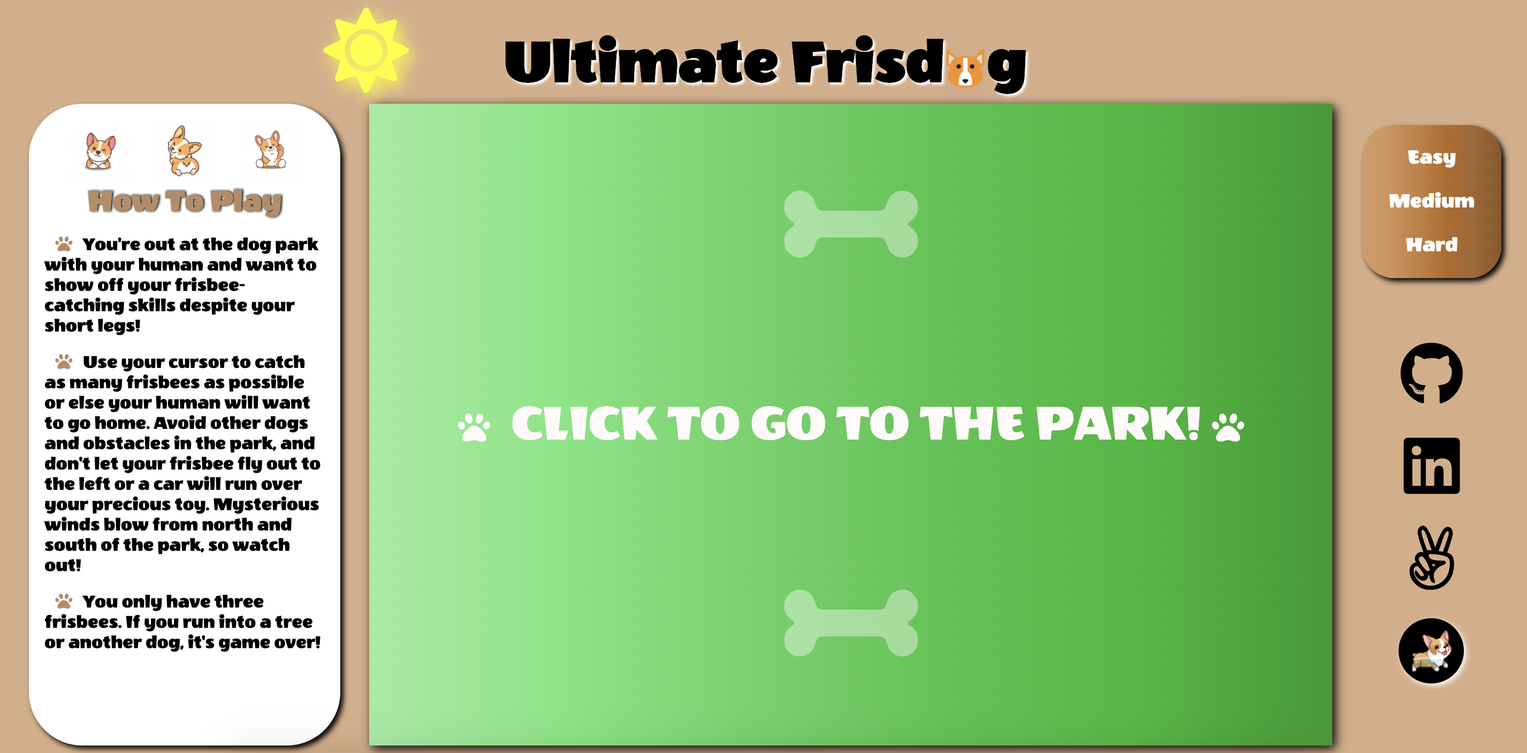
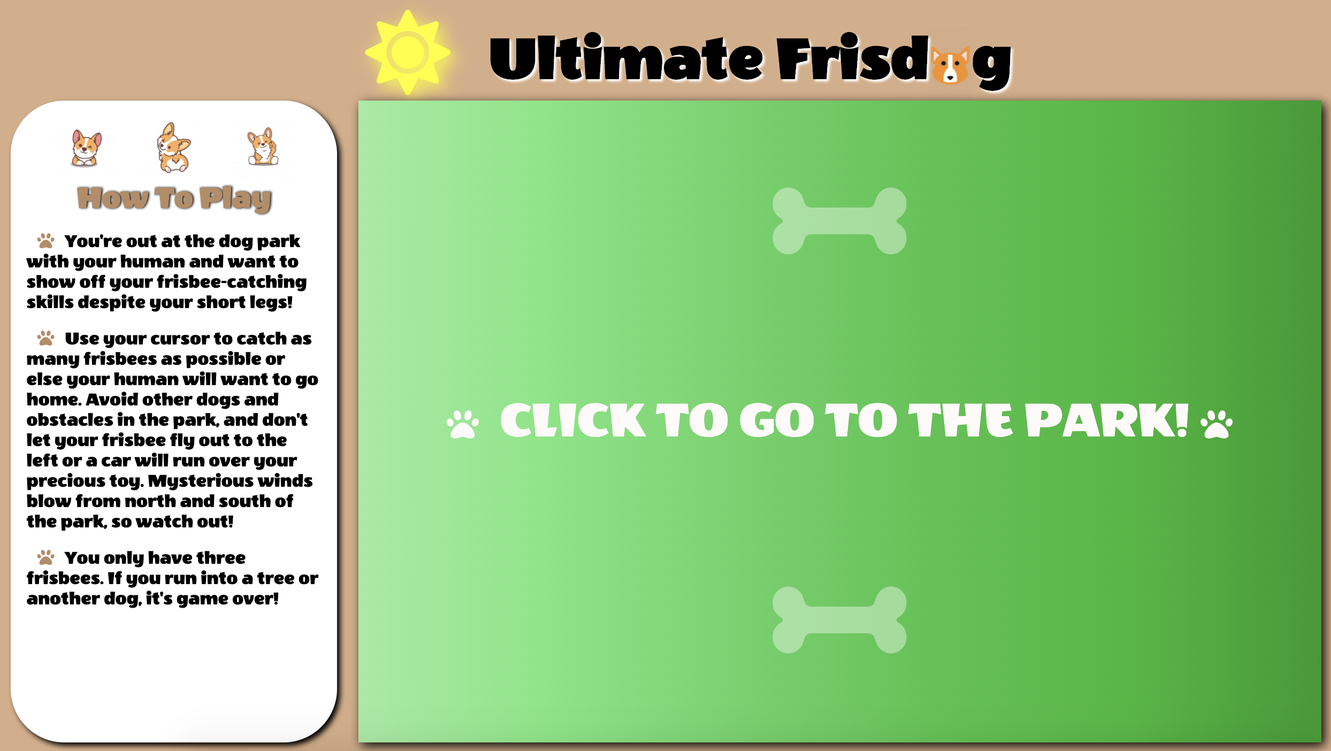
update styles

Changed region(s): [[0.0, 0.0, 1.0, 1.0], [0.4952, 0.7657, 0.6809, 0.8882], [0.4952, 0.245, 0.6809, 0.3369]]

diff --git a/dist/main.js b/dist/main.js
@@ -1,2 +1,2 @@
-!function(t){var e={};function i(s){if(e[s])return e[s].exports;var o=e[s]={i:s,l:!1,exports:{}};return t[s].call(o.exports,o,o.exports,i),o.l=!0,o.exports}i.m=t,i.c=e,i.d=function(t,e,s){i.o(t,e)||Object.defineProperty(t,e,{enumerable:!0,get:s})},i.r=function(t){"undefined"!=typeof Symbol&&Symbol.toStringTag&&Object.defineProperty(t,Symbol.toStringTag,{value:"Module"}),Object.defineProperty(t,"__esModule",{value:!0})},i.t=function(t,e){if(1&e&&(t=i(t)),8&e)return t;if(4&e&&"object"==typeof t&&t&&t.__esModule)return t;var s=Object.create(null);if(i.r(s),Object.defineProperty(s,"default",{enumerable:!0,value:t}),2&e&&"string"!=typeof t)for(var o in t)i.d(s,o,function(e){return t[e]}.bind(null,o));return s},i.n=function(t){var e=t&&t.__esModule?function(){return t.default}:function(){return t};return i.d(e,"a",e),e},i.o=function(t,e){return Object.prototype.hasOwnProperty.call(t,e)},i.p="/dist/",i(i.s=1)}([function(t,e,i){},function(t,e,i){"use strict";function s(t,e){for(var i=0;i<e.length;i++){var s=e[i];s.enumerable=s.enumerable||!1,s.configurable=!0,"value"in s&&(s.writable=!0),Object.defineProperty(t,s.key,s)}}i.r(e);var o=function(){function t(e,i){var s=this;!function(t,e){if(!(t instanceof e))throw new TypeError("Cannot call a class as a function")}(this,t),this.ctx=e,this.canvas=i;var o=new Image;o.src="src/assets/images/corgi.gif",this.image=o,this.height=70,this.width=70,this.mousePos={x:0,y:300},o.onload=function(){s.drawCorgi()},this.mouseMoveHandler()}var e,i,o;return e=t,(i=[{key:"mouseMoveHandler",value:function(){var t=this;this.canvas.addEventListener("mousemove",(function(e){t.mousePos.x=e.clientX-t.canvas.offsetLeft-80,t.mousePos.y=e.clientY-t.canvas.offsetTop-120,t.drawCorgi()}))}},{key:"resetCorgi",value:function(){this.mousePos.x=0,this.mousePos.y=300}},{key:"drawCorgi",value:function(){this.ctx.drawImage(this.image,this.mousePos.x,this.mousePos.y,this.width,this.height)}}])&&s(e.prototype,i),o&&s(e,o),t}();function r(t,e){for(var i=0;i<e.length;i++){var s=e[i];s.enumerable=s.enumerable||!1,s.configurable=!0,"value"in s&&(s.writable=!0),Object.defineProperty(t,s.key,s)}}var n=function(){function t(e){!function(t,e){if(!(t instanceof e))throw new TypeError("Cannot call a class as a function")}(this,t),this.ctx=e;this.frisbeeRadius=8,this.frisbeePos={x:8,y:Math.floor(500*Math.random()+50)},this.frisbeeMove={dx:1,dy:1*Math.random()-.5},this.drawFrisbee=this.drawFrisbee.bind(this)}var e,i,s;return e=t,(i=[{key:"drawFrisbee",value:function(){this.ctx.beginPath(),this.ctx.arc(this.frisbeePos.x,this.frisbeePos.y,this.frisbeeRadius,0,2*Math.PI),this.ctx.fillStyle="rgb(37, 90, 187)",this.ctx.fill(),this.ctx.closePath(),this.frisbeePos.x+=this.frisbeeMove.dx,this.frisbeePos.y+=this.frisbeeMove.dy,(this.frisbeePos.y+this.frisbeeMove.dy>550||this.frisbeePos.y+this.frisbeeMove.dy<50)&&(this.frisbeeMove.dy=-this.frisbeeMove.dy/10)}},{key:"reset",value:function(){this.frisbeePos.x=this.frisbeeRadius,this.frisbeePos.y=Math.floor(500*Math.random()+50),this.frisbeeMove.dy=1*Math.random()-.5,this.frisbeeMove.dx<15?this.frisbeeMove.dx+=.3:this.frisbeeMove.dx>=15&&this.frisbeeMove.dx<25?this.frisbeeMove.dx+=.2:this.frisbeeMove.dx>=25&&this.frisbeeMove.dx<35&&(this.frisbeeMove.dx+=.1)}}])&&r(e.prototype,i),s&&r(e,s),t}();function a(t,e){for(var i=0;i<e.length;i++){var s=e[i];s.enumerable=s.enumerable||!1,s.configurable=!0,"value"in s&&(s.writable=!0),Object.defineProperty(t,s.key,s)}}var c=function(){function t(e){!function(t,e){if(!(t instanceof e))throw new TypeError("Cannot call a class as a function")}(this,t),this.ctx=e;var i=Math.floor(600*Math.random()+100);this.xPos=i;var s=Math.floor(500*Math.random()+50);this.yPos=s,this.drawObstacle=this.drawObstacle.bind(this),this.move=this.move.bind(this),this.randomMove=this.randomMove.bind(this)}var e,i,s;return e=t,(i=[{key:"getXPos",value:function(){if(this.xPos)return this.xPos}},{key:"getYPos",value:function(){if(this.yPos)return this.yPos}},{key:"drawObstacle",value:function(){this.ctx.drawImage(this.image,this.xPos,this.yPos,60,60)}},{key:"move",value:function(t,e){this.checkValidMove(t,e)||(e=0,t=0),this.xPos+=t,this.yPos+=e}},{key:"checkValidMove",value:function(t,e){return this.getXPos(),!(this.xPos+t<50||this.xPos+t>850||this.yPos+e<50||this.yPos+e>550)}},{key:"randomMove",value:function(){var t=4*Math.random()-2,e=4*Math.random()-2;this.checkValidMove(t,e)?this.move(t,e):this.randomMove()}}])&&a(e.prototype,i),s&&a(e,s),t}();function u(t){return(u="function"==typeof Symbol&&"symbol"==typeof Symbol.iterator?function(t){return typeof t}:function(t){return t&&"function"==typeof Symbol&&t.constructor===Symbol&&t!==Symbol.prototype?"symbol":typeof t})(t)}function f(t,e){return(f=Object.setPrototypeOf||function(t,e){return t.__proto__=e,t})(t,e)}function l(t,e){return!e||"object"!==u(e)&&"function"!=typeof e?function(t){if(void 0===t)throw new ReferenceError("this hasn't been initialised - super() hasn't been called");return t}(t):e}function h(){if("undefined"==typeof Reflect||!Reflect.construct)return!1;if(Reflect.construct.sham)return!1;if("function"==typeof Proxy)return!0;try{return Date.prototype.toString.call(Reflect.construct(Date,[],(function(){}))),!0}catch(t){return!1}}function y(t){return(y=Object.setPrototypeOf?Object.getPrototypeOf:function(t){return t.__proto__||Object.getPrototypeOf(t)})(t)}var d=function(t){!function(t,e){if("function"!=typeof e&&null!==e)throw new TypeError("Super expression must either be null or a function");t.prototype=Object.create(e&&e.prototype,{constructor:{value:t,writable:!0,configurable:!0}}),e&&f(t,e)}(s,t);var e,i=(e=s,function(){var t,i=y(e);if(h()){var s=y(this).constructor;t=Reflect.construct(i,arguments,s)}else t=i.apply(this,arguments);return l(this,t)});function s(t){var e;!function(t,e){if(!(t instanceof e))throw new TypeError("Cannot call a class as a function")}(this,s),(e=i.call(this,t)).ctx=t;var o=new Image;return o.src="src/assets/images/tree.png",e.image=o,e.height=60,e.width=50,e.xPos=e.getXPos(),e.yPos=e.getYPos(),e}return s}(c);function p(t){return(p="function"==typeof Symbol&&"symbol"==typeof Symbol.iterator?function(t){return typeof t}:function(t){return t&&"function"==typeof Symbol&&t.constructor===Symbol&&t!==Symbol.prototype?"symbol":typeof t})(t)}function b(t,e){return(b=Object.setPrototypeOf||function(t,e){return t.__proto__=e,t})(t,e)}function m(t,e){return!e||"object"!==p(e)&&"function"!=typeof e?function(t){if(void 0===t)throw new ReferenceError("this hasn't been initialised - super() hasn't been called");return t}(t):e}function v(){if("undefined"==typeof Reflect||!Reflect.construct)return!1;if(Reflect.construct.sham)return!1;if("function"==typeof Proxy)return!0;try{return Date.prototype.toString.call(Reflect.construct(Date,[],(function(){}))),!0}catch(t){return!1}}function g(t){return(g=Object.setPrototypeOf?Object.getPrototypeOf:function(t){return t.__proto__||Object.getPrototypeOf(t)})(t)}var P=function(t){!function(t,e){if("function"!=typeof e&&null!==e)throw new TypeError("Super expression must either be null or a function");t.prototype=Object.create(e&&e.prototype,{constructor:{value:t,writable:!0,configurable:!0}}),e&&b(t,e)}(s,t);var e,i=(e=s,function(){var t,i=g(e);if(v()){var s=g(this).constructor;t=Reflect.construct(i,arguments,s)}else t=i.apply(this,arguments);return m(this,t)});function s(t){var e;!function(t,e){if(!(t instanceof e))throw new TypeError("Cannot call a class as a function")}(this,s),(e=i.call(this,t)).ctx=t;var o=new Image;return o.src="src/assets/images/brown-dog.png",e.image=o,e.height=60,e.width=60,e.xPos=e.getXPos(),e.yPos=e.getYPos(),e}return s}(c);function w(t){return(w="function"==typeof Symbol&&"symbol"==typeof Symbol.iterator?function(t){return typeof t}:function(t){return t&&"function"==typeof Symbol&&t.constructor===Symbol&&t!==Symbol.prototype?"symbol":typeof t})(t)}function x(t,e){return(x=Object.setPrototypeOf||function(t,e){return t.__proto__=e,t})(t,e)}function M(t,e){return!e||"object"!==w(e)&&"function"!=typeof e?function(t){if(void 0===t)throw new ReferenceError("this hasn't been initialised - super() hasn't been called");return t}(t):e}function k(){if("undefined"==typeof Reflect||!Reflect.construct)return!1;if(Reflect.construct.sham)return!1;if("function"==typeof Proxy)return!0;try{return Date.prototype.toString.call(Reflect.construct(Date,[],(function(){}))),!0}catch(t){return!1}}function O(t){return(O=Object.setPrototypeOf?Object.getPrototypeOf:function(t){return t.__proto__||Object.getPrototypeOf(t)})(t)}var S=["src/assets/images/husky.png","src/assets/images/husky2.png","src/assets/images/husky3.png"],_=function(t){!function(t,e){if("function"!=typeof e&&null!==e)throw new TypeError("Super expression must either be null or a function");t.prototype=Object.create(e&&e.prototype,{constructor:{value:t,writable:!0,configurable:!0}}),e&&x(t,e)}(s,t);var e,i=(e=s,function(){var t,i=O(e);if(k()){var s=O(this).constructor;t=Reflect.construct(i,arguments,s)}else t=i.apply(this,arguments);return M(this,t)});function s(t){var e;!function(t,e){if(!(t instanceof e))throw new TypeError("Cannot call a class as a function")}(this,s),(e=i.call(this,t)).ctx=t;var o=new Image;return o.src=S[Math.floor(Math.random()*S.length)],e.image=o,e.height=60,e.width=60,e.xPos=e.getXPos(),e.yPos=e.getYPos(),e}return s}(c);function j(t){return(j="function"==typeof Symbol&&"symbol"==typeof Symbol.iterator?function(t){return typeof t}:function(t){return t&&"function"==typeof Symbol&&t.constructor===Symbol&&t!==Symbol.prototype?"symbol":typeof t})(t)}function L(t,e){return(L=Object.setPrototypeOf||function(t,e){return t.__proto__=e,t})(t,e)}function B(t,e){return!e||"object"!==j(e)&&"function"!=typeof e?function(t){if(void 0===t)throw new ReferenceError("this hasn't been initialised - super() hasn't been called");return t}(t):e}function E(){if("undefined"==typeof Reflect||!Reflect.construct)return!1;if(Reflect.construct.sham)return!1;if("function"==typeof Proxy)return!0;try{return Date.prototype.toString.call(Reflect.construct(Date,[],(function(){}))),!0}catch(t){return!1}}function R(t){return(R=Object.setPrototypeOf?Object.getPrototypeOf:function(t){return t.__proto__||Object.getPrototypeOf(t)})(t)}var C=["src/assets/images/shiba.png","src/assets/images/shiba2.png","src/assets/images/shiba3.png"],T=function(t){!function(t,e){if("function"!=typeof e&&null!==e)throw new TypeError("Super expression must either be null or a function");t.prototype=Object.create(e&&e.prototype,{constructor:{value:t,writable:!0,configurable:!0}}),e&&L(t,e)}(s,t);var e,i=(e=s,function(){var t,i=R(e);if(E()){var s=R(this).constructor;t=Reflect.construct(i,arguments,s)}else t=i.apply(this,arguments);return B(this,t)});function s(t){var e;!function(t,e){if(!(t instanceof e))throw new TypeError("Cannot call a class as a function")}(this,s),(e=i.call(this,t)).ctx=t;var o=new Image;return o.src=C[Math.floor(Math.random()*C.length)],e.image=o,e.height=60,e.width=60,e.xPos=e.getXPos(),e.yPos=e.getYPos(),e}return s}(c);function I(t,e){for(var i=0;i<e.length;i++){var s=e[i];s.enumerable=s.enumerable||!1,s.configurable=!0,"value"in s&&(s.writable=!0),Object.defineProperty(t,s.key,s)}}var D={trees:1,dogs:2},G={trees:2,dogs:3},F={trees:3,dogs:4},X=function(){function t(e,i){!function(t,e){if(!(t instanceof e))throw new TypeError("Cannot call a class as a function")}(this,t),this.ctx=e,this.canvas=i,this.score=0,this.frisbees=3,this.gameOver=!1,this.musicPlaying=!0,this.difficulty=F;var s=new n(this.ctx);this.frisbee=s;var r=new o(this.ctx,this.canvas);this.player=r;var a=[],c=new P(this.ctx);this.borderCollie=c,a.push(this.borderCollie);var u=new _(this.ctx);this.husky=u,a.push(this.husky);var f=new T(this.ctx);this.shiba=f,a.push(this.shiba);var l=new T(this.ctx);this.shiba2=l,a.push(this.shiba2),this.dogs=a;for(var h=[],y=0;y<this.difficulty.trees;y++){var p=new d(this.ctx);this.tree=p,h.push(this.tree)}this.trees=h;var b=new Audio("src/assets/sounds/music.mp3");this.music=b,this.setup=this.setup.bind(this),this.draw=this.draw.bind(this),this.clickModalStart=this.clickModalStart.bind(this),this.clickGameStart=this.clickGameStart.bind(this),this.stopGame=this.stopGame.bind(this),this.playMusic=this.playMusic.bind(this),this.setupControls()}var e,i,s;return e=t,(i=[{key:"setupControls",value:function(){var t=this,e=document.getElementById("easy-button");this.easyButton=e;var i=document.getElementById("medium-button");this.mediumButton=i;var s=document.getElementById("hard-button");this.hardButton=s,this.easyButton.addEventListener("click",(function(){t.easyButton.classList.add("active-button"),t.mediumButton.classList.remove("active-button"),t.hardButton.classList.remove("active-button"),t.difficulty=D})),this.mediumButton.addEventListener("click",(function(){t.easyButton.classList.remove("active-button"),t.mediumButton.classList.add("active-button"),t.hardButton.classList.remove("active-button"),t.difficulty=G})),this.hardButton.addEventListener("click",(function(){t.easyButton.classList.remove("active-button"),t.mediumButton.classList.remove("active-button"),t.hardButton.classList.add("active-button"),t.difficulty=F})),this.muteButton=document.getElementById("mute-music"),this.muteButton.onclick=this.muteMusic.bind(this),this.playButton=document.getElementById("play-music"),this.playButton.onclick=this.playMusic.bind(this),this.startModal=document.getElementById("modal"),this.startModal.onclick=this.clickModalStart.bind(this),this.startGame=document.getElementById("park-view"),this.startGame.onclick=this.clickGameStart.bind(this),this.playMusic()}},{key:"muteMusic",value:function(){this.music.pause(),this.playButton.classList.remove("active-button"),this.muteButton.classList.add("active-button")}},{key:"playMusic",value:function(){this.muteButton.classList.remove("active-button"),this.playButton.classList.add("active-button"),this.music.pause(),this.music.currentTime=0,this.music.play()}},{key:"clickModalStart",value:function(t){t.preventDefault(),this.score=0,this.frisbees=3,this.gameOver=!1,this.startModal.classList.remove("open-modal"),this.startModal.classList.add("close-modal"),this.startGame.classList.remove("close-park-view"),this.startGame.classList.add("open-park-view"),this.startModal.onclick=function(t){return t.preventDefault()},this.setup()}},{key:"clickGameStart",value:function(t){t.preventDefault(),this.startGame.classList.remove("open-park-view"),this.startGame.classList.add("close-park-view"),this.draw()}},{key:"stopGame",value:function(){var t="frisbees";1===this.score&&(t="frisbee"),this.gameOver&&(cancelAnimationFrame(this.setup),cancelAnimationFrame(this.draw),this.frisbee.frisbeeMove.dx=1,this.player.resetCorgi(),this.startModal.innerHTML="You caught "+this.score+" "+t+" today! <br><br> <i class='fas fa-paw'></i> <br>Click to fast-forward to tomorrow and play again!",this.startModal.classList.remove("close-modal"),this.startModal.classList.add("open-modal"),this.ctx.clearRect(0,0,900,600),this.startModal.onclick=this.clickModalStart.bind(this))}},{key:"drawTrees",value:function(){for(var t=0;t<this.difficulty.trees;t++)this.trees[t].drawObstacle()}},{key:"drawDogs",value:function(){for(var t=0;t<this.difficulty.dogs;t++){var e=this.dogs[t];e.drawObstacle(),e.randomMove()}}},{key:"setup",value:function(){this.ctx.clearRect(0,0,900,600),requestAnimationFrame(this.setup),this.drawTrees(),this.drawDogs(),this.drawScore(),this.drawLives(),this.drawMode()}},{key:"draw",value:function(){requestAnimationFrame(this.draw),this.frisbee.drawFrisbee(),this.player.drawCorgi(),this.didCollide(),this.lostFrisbee(),this.stopGame(),0===this.frisbees&&(this.gameOver=!0)}},{key:"drawScore",value:function(){this.ctx.font="20px Wendy One",this.ctx.fillStyle="black",this.ctx.fillText("Score:  "+this.score,20,25)}},{key:"drawLives",value:function(){this.ctx.font="20px Wendy One",this.ctx.fillStyle="black",this.ctx.fillText("Frisbees Left:  "+this.frisbees,120,25)}},{key:"drawMode",value:function(){var t="Hard";t=this.difficulty===D?"Easy":this.difficulty===G?"Medium":"Hard",this.ctx.font="20px Wendy One",this.ctx.fillStyle="black",this.ctx.fillText("Difficulty:   "+t,680,25)}},{key:"lostFrisbee",value:function(){this.frisbee.frisbeePos.x>905&&(this.frisbees--,this.frisbee.reset(),this.draw)}},{key:"didCollide",value:function(){this.frisbeeCollision()&&(this.score++,this.frisbee.reset(),this.draw),this.obstacleCollision()&&(this.gameOver=!0)}},{key:"obstacleCollision",value:function(){for(var t=0;t<this.difficulty.trees;t++)if(this.player.mousePos.x>this.trees[t].xPos-40&&this.player.mousePos.x<this.trees[t].xPos+40&&this.player.mousePos.y>this.trees[t].yPos-40&&this.player.mousePos.y<this.trees[t].yPos+40)return!0;for(var e=0;e<this.difficulty.dogs;e++)if(this.player.mousePos.x>this.dogs[e].xPos-40&&this.player.mousePos.x<this.dogs[e].xPos+40&&this.player.mousePos.y>this.dogs[e].yPos-40&&this.player.mousePos.y<this.dogs[e].yPos+40)return!0}},{key:"frisbeeCollision",value:function(){if(this.player.mousePos.x>this.frisbee.frisbeePos.x-80&&this.player.mousePos.x<this.frisbee.frisbeePos.x&&this.player.mousePos.y>this.frisbee.frisbeePos.y-80&&this.player.mousePos.y<this.frisbee.frisbeePos.y)return!0}}])&&I(e.prototype,i),s&&I(e,s),t}();i(0);document.addEventListener("DOMContentLoaded",(function(){var t=document.getElementById("canvas-dog-park"),e=t.getContext("2d");new X(e,t)}))}]);
+!function(t){var e={};function i(s){if(e[s])return e[s].exports;var o=e[s]={i:s,l:!1,exports:{}};return t[s].call(o.exports,o,o.exports,i),o.l=!0,o.exports}i.m=t,i.c=e,i.d=function(t,e,s){i.o(t,e)||Object.defineProperty(t,e,{enumerable:!0,get:s})},i.r=function(t){"undefined"!=typeof Symbol&&Symbol.toStringTag&&Object.defineProperty(t,Symbol.toStringTag,{value:"Module"}),Object.defineProperty(t,"__esModule",{value:!0})},i.t=function(t,e){if(1&e&&(t=i(t)),8&e)return t;if(4&e&&"object"==typeof t&&t&&t.__esModule)return t;var s=Object.create(null);if(i.r(s),Object.defineProperty(s,"default",{enumerable:!0,value:t}),2&e&&"string"!=typeof t)for(var o in t)i.d(s,o,function(e){return t[e]}.bind(null,o));return s},i.n=function(t){var e=t&&t.__esModule?function(){return t.default}:function(){return t};return i.d(e,"a",e),e},i.o=function(t,e){return Object.prototype.hasOwnProperty.call(t,e)},i.p="/dist/",i(i.s=1)}([function(t,e,i){},function(t,e,i){"use strict";function s(t,e){for(var i=0;i<e.length;i++){var s=e[i];s.enumerable=s.enumerable||!1,s.configurable=!0,"value"in s&&(s.writable=!0),Object.defineProperty(t,s.key,s)}}i.r(e);var o=function(){function t(e,i){var s=this;!function(t,e){if(!(t instanceof e))throw new TypeError("Cannot call a class as a function")}(this,t),this.ctx=e,this.canvas=i;var o=new Image;o.src="src/assets/images/corgi.gif",this.image=o,this.height=70,this.width=70,this.mousePos={x:0,y:300},o.onload=function(){s.drawCorgi()},this.mouseMoveHandler()}var e,i,o;return e=t,(i=[{key:"mouseMoveHandler",value:function(){var t=this;this.canvas.addEventListener("mousemove",(function(e){t.mousePos.x=e.clientX-t.canvas.offsetLeft-80,t.mousePos.y=e.clientY-t.canvas.offsetTop-120,t.drawCorgi()}))}},{key:"resetCorgi",value:function(){this.mousePos.x=0,this.mousePos.y=300}},{key:"drawCorgi",value:function(){this.ctx.drawImage(this.image,this.mousePos.x,this.mousePos.y,this.width,this.height)}}])&&s(e.prototype,i),o&&s(e,o),t}();function r(t,e){for(var i=0;i<e.length;i++){var s=e[i];s.enumerable=s.enumerable||!1,s.configurable=!0,"value"in s&&(s.writable=!0),Object.defineProperty(t,s.key,s)}}var n=function(){function t(e){!function(t,e){if(!(t instanceof e))throw new TypeError("Cannot call a class as a function")}(this,t),this.ctx=e;this.frisbeeRadius=8,this.frisbeePos={x:8,y:Math.floor(500*Math.random()+50)},this.frisbeeMove={dx:1,dy:1*Math.random()-.5},this.drawFrisbee=this.drawFrisbee.bind(this)}var e,i,s;return e=t,(i=[{key:"drawFrisbee",value:function(){this.ctx.beginPath(),this.ctx.arc(this.frisbeePos.x,this.frisbeePos.y,this.frisbeeRadius,0,2*Math.PI),this.ctx.fillStyle="rgb(37, 90, 187)",this.ctx.fill(),this.ctx.closePath(),this.frisbeePos.x+=this.frisbeeMove.dx,this.frisbeePos.y+=this.frisbeeMove.dy,(this.frisbeePos.y+this.frisbeeMove.dy>550||this.frisbeePos.y+this.frisbeeMove.dy<50)&&(this.frisbeeMove.dy=-this.frisbeeMove.dy/10)}},{key:"reset",value:function(){this.frisbeePos.x=this.frisbeeRadius,this.frisbeePos.y=Math.floor(500*Math.random()+50),this.frisbeeMove.dy=1*Math.random()-.5,this.frisbeeMove.dx<15?this.frisbeeMove.dx+=.3:this.frisbeeMove.dx>=15&&this.frisbeeMove.dx<25?this.frisbeeMove.dx+=.2:this.frisbeeMove.dx>=25&&this.frisbeeMove.dx<35&&(this.frisbeeMove.dx+=.1)}}])&&r(e.prototype,i),s&&r(e,s),t}();function a(t,e){for(var i=0;i<e.length;i++){var s=e[i];s.enumerable=s.enumerable||!1,s.configurable=!0,"value"in s&&(s.writable=!0),Object.defineProperty(t,s.key,s)}}var c=function(){function t(e){!function(t,e){if(!(t instanceof e))throw new TypeError("Cannot call a class as a function")}(this,t),this.ctx=e;var i=Math.floor(600*Math.random()+100);this.xPos=i;var s=Math.floor(500*Math.random()+50);this.yPos=s,this.drawObstacle=this.drawObstacle.bind(this),this.move=this.move.bind(this),this.randomMove=this.randomMove.bind(this)}var e,i,s;return e=t,(i=[{key:"getXPos",value:function(){if(this.xPos)return this.xPos}},{key:"getYPos",value:function(){if(this.yPos)return this.yPos}},{key:"drawObstacle",value:function(){this.ctx.drawImage(this.image,this.xPos,this.yPos,60,60)}},{key:"move",value:function(t,e){this.checkValidMove(t,e)||(e=0,t=0),this.xPos+=t,this.yPos+=e}},{key:"checkValidMove",value:function(t,e){return this.getXPos(),!(this.xPos+t<50||this.xPos+t>850||this.yPos+e<50||this.yPos+e>550)}},{key:"randomMove",value:function(){var t=4*Math.random()-2,e=4*Math.random()-2;this.checkValidMove(t,e)?this.move(t,e):this.randomMove()}}])&&a(e.prototype,i),s&&a(e,s),t}();function u(t){return(u="function"==typeof Symbol&&"symbol"==typeof Symbol.iterator?function(t){return typeof t}:function(t){return t&&"function"==typeof Symbol&&t.constructor===Symbol&&t!==Symbol.prototype?"symbol":typeof t})(t)}function f(t,e){return(f=Object.setPrototypeOf||function(t,e){return t.__proto__=e,t})(t,e)}function l(t,e){return!e||"object"!==u(e)&&"function"!=typeof e?function(t){if(void 0===t)throw new ReferenceError("this hasn't been initialised - super() hasn't been called");return t}(t):e}function h(){if("undefined"==typeof Reflect||!Reflect.construct)return!1;if(Reflect.construct.sham)return!1;if("function"==typeof Proxy)return!0;try{return Date.prototype.toString.call(Reflect.construct(Date,[],(function(){}))),!0}catch(t){return!1}}function y(t){return(y=Object.setPrototypeOf?Object.getPrototypeOf:function(t){return t.__proto__||Object.getPrototypeOf(t)})(t)}var d=function(t){!function(t,e){if("function"!=typeof e&&null!==e)throw new TypeError("Super expression must either be null or a function");t.prototype=Object.create(e&&e.prototype,{constructor:{value:t,writable:!0,configurable:!0}}),e&&f(t,e)}(s,t);var e,i=(e=s,function(){var t,i=y(e);if(h()){var s=y(this).constructor;t=Reflect.construct(i,arguments,s)}else t=i.apply(this,arguments);return l(this,t)});function s(t){var e;!function(t,e){if(!(t instanceof e))throw new TypeError("Cannot call a class as a function")}(this,s),(e=i.call(this,t)).ctx=t;var o=new Image;return o.src="src/assets/images/tree.png",e.image=o,e.height=60,e.width=50,e.xPos=e.getXPos(),e.yPos=e.getYPos(),e}return s}(c);function p(t){return(p="function"==typeof Symbol&&"symbol"==typeof Symbol.iterator?function(t){return typeof t}:function(t){return t&&"function"==typeof Symbol&&t.constructor===Symbol&&t!==Symbol.prototype?"symbol":typeof t})(t)}function b(t,e){return(b=Object.setPrototypeOf||function(t,e){return t.__proto__=e,t})(t,e)}function m(t,e){return!e||"object"!==p(e)&&"function"!=typeof e?function(t){if(void 0===t)throw new ReferenceError("this hasn't been initialised - super() hasn't been called");return t}(t):e}function v(){if("undefined"==typeof Reflect||!Reflect.construct)return!1;if(Reflect.construct.sham)return!1;if("function"==typeof Proxy)return!0;try{return Date.prototype.toString.call(Reflect.construct(Date,[],(function(){}))),!0}catch(t){return!1}}function g(t){return(g=Object.setPrototypeOf?Object.getPrototypeOf:function(t){return t.__proto__||Object.getPrototypeOf(t)})(t)}var P=function(t){!function(t,e){if("function"!=typeof e&&null!==e)throw new TypeError("Super expression must either be null or a function");t.prototype=Object.create(e&&e.prototype,{constructor:{value:t,writable:!0,configurable:!0}}),e&&b(t,e)}(s,t);var e,i=(e=s,function(){var t,i=g(e);if(v()){var s=g(this).constructor;t=Reflect.construct(i,arguments,s)}else t=i.apply(this,arguments);return m(this,t)});function s(t){var e;!function(t,e){if(!(t instanceof e))throw new TypeError("Cannot call a class as a function")}(this,s),(e=i.call(this,t)).ctx=t;var o=new Image;return o.src="src/assets/images/brown-dog.png",e.image=o,e.height=60,e.width=60,e.xPos=e.getXPos(),e.yPos=e.getYPos(),e}return s}(c);function w(t){return(w="function"==typeof Symbol&&"symbol"==typeof Symbol.iterator?function(t){return typeof t}:function(t){return t&&"function"==typeof Symbol&&t.constructor===Symbol&&t!==Symbol.prototype?"symbol":typeof t})(t)}function x(t,e){return(x=Object.setPrototypeOf||function(t,e){return t.__proto__=e,t})(t,e)}function M(t,e){return!e||"object"!==w(e)&&"function"!=typeof e?function(t){if(void 0===t)throw new ReferenceError("this hasn't been initialised - super() hasn't been called");return t}(t):e}function k(){if("undefined"==typeof Reflect||!Reflect.construct)return!1;if(Reflect.construct.sham)return!1;if("function"==typeof Proxy)return!0;try{return Date.prototype.toString.call(Reflect.construct(Date,[],(function(){}))),!0}catch(t){return!1}}function O(t){return(O=Object.setPrototypeOf?Object.getPrototypeOf:function(t){return t.__proto__||Object.getPrototypeOf(t)})(t)}var S=["src/assets/images/husky.png","src/assets/images/husky2.png","src/assets/images/husky3.png"],_=function(t){!function(t,e){if("function"!=typeof e&&null!==e)throw new TypeError("Super expression must either be null or a function");t.prototype=Object.create(e&&e.prototype,{constructor:{value:t,writable:!0,configurable:!0}}),e&&x(t,e)}(s,t);var e,i=(e=s,function(){var t,i=O(e);if(k()){var s=O(this).constructor;t=Reflect.construct(i,arguments,s)}else t=i.apply(this,arguments);return M(this,t)});function s(t){var e;!function(t,e){if(!(t instanceof e))throw new TypeError("Cannot call a class as a function")}(this,s),(e=i.call(this,t)).ctx=t;var o=new Image;return o.src=S[Math.floor(Math.random()*S.length)],e.image=o,e.height=60,e.width=60,e.xPos=e.getXPos(),e.yPos=e.getYPos(),e}return s}(c);function j(t){return(j="function"==typeof Symbol&&"symbol"==typeof Symbol.iterator?function(t){return typeof t}:function(t){return t&&"function"==typeof Symbol&&t.constructor===Symbol&&t!==Symbol.prototype?"symbol":typeof t})(t)}function L(t,e){return(L=Object.setPrototypeOf||function(t,e){return t.__proto__=e,t})(t,e)}function B(t,e){return!e||"object"!==j(e)&&"function"!=typeof e?function(t){if(void 0===t)throw new ReferenceError("this hasn't been initialised - super() hasn't been called");return t}(t):e}function E(){if("undefined"==typeof Reflect||!Reflect.construct)return!1;if(Reflect.construct.sham)return!1;if("function"==typeof Proxy)return!0;try{return Date.prototype.toString.call(Reflect.construct(Date,[],(function(){}))),!0}catch(t){return!1}}function R(t){return(R=Object.setPrototypeOf?Object.getPrototypeOf:function(t){return t.__proto__||Object.getPrototypeOf(t)})(t)}var C=["src/assets/images/shiba.png","src/assets/images/shiba2.png","src/assets/images/shiba3.png"],T=function(t){!function(t,e){if("function"!=typeof e&&null!==e)throw new TypeError("Super expression must either be null or a function");t.prototype=Object.create(e&&e.prototype,{constructor:{value:t,writable:!0,configurable:!0}}),e&&L(t,e)}(s,t);var e,i=(e=s,function(){var t,i=R(e);if(E()){var s=R(this).constructor;t=Reflect.construct(i,arguments,s)}else t=i.apply(this,arguments);return B(this,t)});function s(t){var e;!function(t,e){if(!(t instanceof e))throw new TypeError("Cannot call a class as a function")}(this,s),(e=i.call(this,t)).ctx=t;var o=new Image;return o.src=C[Math.floor(Math.random()*C.length)],e.image=o,e.height=60,e.width=60,e.xPos=e.getXPos(),e.yPos=e.getYPos(),e}return s}(c);function I(t,e){for(var i=0;i<e.length;i++){var s=e[i];s.enumerable=s.enumerable||!1,s.configurable=!0,"value"in s&&(s.writable=!0),Object.defineProperty(t,s.key,s)}}var D={trees:1,dogs:2},G={trees:2,dogs:3},F={trees:3,dogs:4},X=function(){function t(e,i){!function(t,e){if(!(t instanceof e))throw new TypeError("Cannot call a class as a function")}(this,t),this.ctx=e,this.canvas=i,this.score=0,this.frisbees=3,this.gameOver=!1,this.musicPlaying=!0,this.difficulty=F;var s=new n(this.ctx);this.frisbee=s;var r=new o(this.ctx,this.canvas);this.player=r;var a=[],c=new P(this.ctx);this.borderCollie=c,a.push(this.borderCollie);var u=new _(this.ctx);this.husky=u,a.push(this.husky);var f=new T(this.ctx);this.shiba=f,a.push(this.shiba);var l=new T(this.ctx);this.shiba2=l,a.push(this.shiba2),this.dogs=a;for(var h=[],y=0;y<this.difficulty.trees;y++){var p=new d(this.ctx);this.tree=p,h.push(this.tree)}this.trees=h;var b=new Audio("src/assets/sounds/music.mp3");b.loop=!0,this.music=b,this.setup=this.setup.bind(this),this.draw=this.draw.bind(this),this.clickModalStart=this.clickModalStart.bind(this),this.clickGameStart=this.clickGameStart.bind(this),this.stopGame=this.stopGame.bind(this),this.playMusic=this.playMusic.bind(this),this.setupControls()}var e,i,s;return e=t,(i=[{key:"setupControls",value:function(){var t=this,e=document.getElementById("easy-button");this.easyButton=e;var i=document.getElementById("medium-button");this.mediumButton=i;var s=document.getElementById("hard-button");this.hardButton=s,this.easyButton.addEventListener("click",(function(){t.easyButton.classList.add("active-button"),t.mediumButton.classList.remove("active-button"),t.hardButton.classList.remove("active-button"),t.difficulty=D})),this.mediumButton.addEventListener("click",(function(){t.easyButton.classList.remove("active-button"),t.mediumButton.classList.add("active-button"),t.hardButton.classList.remove("active-button"),t.difficulty=G})),this.hardButton.addEventListener("click",(function(){t.easyButton.classList.remove("active-button"),t.mediumButton.classList.remove("active-button"),t.hardButton.classList.add("active-button"),t.difficulty=F})),this.muteButton=document.getElementById("mute-music"),this.muteButton.onclick=this.muteMusic.bind(this),this.playButton=document.getElementById("play-music"),this.playButton.onclick=this.playMusic.bind(this),this.startModal=document.getElementById("modal"),this.startModal.onclick=this.clickModalStart.bind(this),this.startGame=document.getElementById("park-view"),this.startGame.onclick=this.clickGameStart.bind(this),this.playMusic()}},{key:"muteMusic",value:function(){this.music.pause(),this.playButton.classList.remove("active-button"),this.muteButton.classList.add("active-button")}},{key:"playMusic",value:function(){this.muteButton.classList.remove("active-button"),this.playButton.classList.add("active-button"),this.music.play()}},{key:"clickModalStart",value:function(t){t.preventDefault(),this.score=0,this.frisbees=3,this.gameOver=!1,this.startModal.classList.remove("open-modal"),this.startModal.classList.add("close-modal"),this.startGame.classList.remove("close-park-view"),this.startGame.classList.add("open-park-view"),this.startModal.onclick=function(t){return t.preventDefault()},this.setup()}},{key:"clickGameStart",value:function(t){t.preventDefault(),this.startGame.classList.remove("open-park-view"),this.startGame.classList.add("close-park-view"),this.draw()}},{key:"stopGame",value:function(){var t="frisbees";1===this.score&&(t="frisbee"),this.gameOver&&(cancelAnimationFrame(this.setup),cancelAnimationFrame(this.draw),this.frisbee.frisbeeMove.dx=1,this.player.resetCorgi(),this.startModal.innerHTML="You caught "+this.score+" "+t+" today! <br><br> <i class='fas fa-paw'></i> <br>Click to fast-forward to tomorrow and play again!",this.startModal.classList.remove("close-modal"),this.startModal.classList.add("open-modal"),this.ctx.clearRect(0,0,900,600),this.startModal.onclick=this.clickModalStart.bind(this))}},{key:"drawTrees",value:function(){for(var t=0;t<this.difficulty.trees;t++)this.trees[t].drawObstacle()}},{key:"drawDogs",value:function(){for(var t=0;t<this.difficulty.dogs;t++){var e=this.dogs[t];e.drawObstacle(),e.randomMove()}}},{key:"setup",value:function(){this.ctx.clearRect(0,0,900,600),requestAnimationFrame(this.setup),this.drawTrees(),this.drawDogs(),this.drawScore(),this.drawLives(),this.drawMode()}},{key:"draw",value:function(){requestAnimationFrame(this.draw),this.frisbee.drawFrisbee(),this.player.drawCorgi(),this.didCollide(),this.lostFrisbee(),this.stopGame(),0===this.frisbees&&(this.gameOver=!0)}},{key:"drawScore",value:function(){this.ctx.font="20px Wendy One",this.ctx.fillStyle="black",this.ctx.fillText("Score:  "+this.score,20,25)}},{key:"drawLives",value:function(){this.ctx.font="20px Wendy One",this.ctx.fillStyle="black",this.ctx.fillText("Frisbees Left:  "+this.frisbees,120,25)}},{key:"drawMode",value:function(){var t="Hard";t=this.difficulty===D?"Easy":this.difficulty===G?"Medium":"Hard",this.ctx.font="20px Wendy One",this.ctx.fillStyle="black",this.ctx.fillText("Difficulty:   "+t,680,25)}},{key:"lostFrisbee",value:function(){this.frisbee.frisbeePos.x>905&&(this.frisbees--,this.frisbee.reset(),this.draw)}},{key:"didCollide",value:function(){this.frisbeeCollision()&&(this.score++,this.frisbee.reset(),this.draw),this.obstacleCollision()&&(this.gameOver=!0)}},{key:"obstacleCollision",value:function(){for(var t=0;t<this.difficulty.trees;t++)if(this.player.mousePos.x>this.trees[t].xPos-40&&this.player.mousePos.x<this.trees[t].xPos+40&&this.player.mousePos.y>this.trees[t].yPos-40&&this.player.mousePos.y<this.trees[t].yPos+40)return!0;for(var e=0;e<this.difficulty.dogs;e++)if(this.player.mousePos.x>this.dogs[e].xPos-40&&this.player.mousePos.x<this.dogs[e].xPos+40&&this.player.mousePos.y>this.dogs[e].yPos-40&&this.player.mousePos.y<this.dogs[e].yPos+40)return!0}},{key:"frisbeeCollision",value:function(){if(this.player.mousePos.x>this.frisbee.frisbeePos.x-80&&this.player.mousePos.x<this.frisbee.frisbeePos.x&&this.player.mousePos.y>this.frisbee.frisbeePos.y-80&&this.player.mousePos.y<this.frisbee.frisbeePos.y)return!0}}])&&I(e.prototype,i),s&&I(e,s),t}();i(0);document.addEventListener("DOMContentLoaded",(function(){var t=document.getElementById("canvas-dog-park"),e=t.getContext("2d");new X(e,t)}))}]);
 //# sourceMappingURL=main.js.map

diff --git a/dist/main.css b/dist/main.css
@@ -1,4 +1,4 @@
-html,body,h1,h2,h3,h4,h5,h6,header,footer,div,span,section,p,label,input,form,img,caption,button,aside,ul,ol,li,tr,td,th,a,dl,dt,dd,nav,time{margin:0;padding:0;border:0;outline:0;box-sizing:inherit;font-family:inherit;text-decoration:inherit;vertical-align:baseline;background:transparent;list-style-type:none}body{background-color:#D8AE87}.outer-container{font-family:'Wendy One', sans-serif;margin:2%}.fa-sun{position:absolute;left:20%;top:-15%;font-size:5em;color:yellow;text-shadow:5px 5px 15px;transition:0.5s}.fa-sun:hover{transform:rotate(10deg);text-shadow:5px 5px 20px}.outer-container h1{font-size:60px;display:flex;justify-content:center;text-shadow:2px 2px 2px white}.main-container{display:flex;position:relative}.corgi-images{display:flex;justify-content:space-evenly}.left{background-color:white;border-radius:50px;box-shadow:3px 3px 5px black;padding:15px;flex:2;margin-right:20px}.left h3{color:#b88c63;font-size:30px;text-align:center;text-shadow:1px 0px 2px black}.left p{padding-top:15px;font-size:18px}#paw{font-size:16px;color:#b88c63}.game-screen{flex:7;margin-right:20px;display:flex;justify-content:center}.right{flex:1;display:flex;flex-direction:column;align-items:center}.right a{text-decoration:none;font-size:50px;padding:10px;color:black;align-self:center;transition:0.5s;cursor:pointer}.right img{align-self:center;width:50px;height:50px;border:0.5px solid black;box-shadow:2px 2px 5px white;border-radius:50%;background-color:black;transition:0.5s}.right img:hover{cursor:pointer;background-color:white;border:0.5px solid white;box-shadow:2px 2px 5px black}.right a:hover{color:snow}#canvas-dog-park{background-image:linear-gradient(to right, #98ec9f, #70e77c, #58d362, #3ac445, #25b931, #1a9b25)}.open-modal{display:flex;flex-direction:column;background-image:linear-gradient(to right, #98ec9f, #70e77c, #58d362, #3ac445, #25b931, #1a9b25);position:absolute;width:900px;height:600px;text-align:center;justify-content:center;align-items:center;color:snow;font-size:50px;z-index:100;box-shadow:3px 3px 10px black}.close-modal{display:none}.open-park-view{display:flex;flex-direction:column;position:absolute;width:900px;height:600px;text-align:center;justify-content:center;align-items:center;color:rgba(255,250,250,0.692);font-size:50px;z-index:100;background-color:transparent}.close-park-view{display:none}.fa-paw{padding:0px 10px;font-size:30px}.fa-bone{margin:80px 0px;font-size:100px;color:rgba(255,255,255,0.397);transition:0.5s}.fa-bone:hover{color:rgba(255,255,255,0.759)}#click-start{padding:30px;transition:0.7s}#click-start:hover{color:black;cursor:pointer}.difficulty-mode{width:8em;display:flex;flex-direction:column;border-radius:30px;margin:20px 0px 30px 0px;padding:10px 0px;box-shadow:3px 3px 5px;background-image:linear-gradient(to right, #d39c68, #d19257, #c48040, #b66a23, #a16731, #8f5620)}.difficulty-mode button{padding:10px;font-size:20px;color:white;transition:0.5s}.difficulty-mode button:hover{color:black;cursor:pointer}.difficulty-mode button:focus{color:black;cursor:pointer}.music{width:4em;font-size:20px;color:black;border-radius:20px;display:flex;flex-direction:column;text-align:center;padding:12px;background-image:linear-gradient(to right, #d39c68, #d19257, #c48040, #b66a23, #a16731, #8f5620);box-shadow:3px 3px 5px black}#mute-music,#play-music{padding-top:4px;font-size:16px;color:white;transition:0.5s}#play-music{padding-top:8px}#mute-music:hover,#play-music:hover{color:black;cursor:pointer}.active-button{color:#19571e !important;cursor:default !important}@media screen and (max-width: 1380px){.left h3{font-size:26px}.left p{padding-top:12px;font-size:16px}}
+html,body,h1,h2,h3,h4,h5,h6,header,footer,div,span,section,p,label,input,form,img,caption,button,aside,ul,ol,li,tr,td,th,a,dl,dt,dd,nav,time{margin:0;padding:0;border:0;outline:0;box-sizing:inherit;font-family:inherit;text-decoration:inherit;vertical-align:baseline;background:transparent;list-style-type:none}body{background-color:#D8AE87}.outer-container{font-family:'Wendy One', sans-serif;margin:2%}.fa-sun{position:absolute;left:25%;top:2%;font-size:5em;color:yellow;text-shadow:5px 5px 15px;transition:0.5s}.fa-sun:hover{transform:rotate(10deg);text-shadow:5px 5px 20px}.outer-container h1{position:relative;font-size:60px;display:flex;justify-content:center;text-shadow:2px 2px 2px white}.main-container{display:flex;position:relative}.corgi-images{display:flex;justify-content:space-evenly}.left{background-color:white;border-radius:50px;box-shadow:3px 3px 5px black;padding:15px;flex:2;margin-right:20px}.left h3{color:#b88c63;font-size:30px;text-align:center;text-shadow:1px 0px 2px black}.left p{padding-top:15px;font-size:18px}#paw{font-size:16px;color:#b88c63}.game-screen{flex:6;margin-right:20px;display:flex;justify-content:center}.right{flex:1;display:flex;flex-direction:column;align-items:center}.right a{text-decoration:none;font-size:50px;padding:10px;color:black;align-self:center;transition:0.5s;cursor:pointer}.right img{align-self:center;width:50px;height:50px;border:0.5px solid black;box-shadow:2px 2px 5px white;border-radius:50%;background-color:black;transition:0.5s}.right img:hover{cursor:pointer;background-color:white;border:0.5px solid white;box-shadow:2px 2px 5px black}.right a:hover{color:snow}#canvas-dog-park{background-image:linear-gradient(to right, #98ec9f, #70e77c, #58d362, #3ac445, #25b931, #1a9b25)}.open-modal{display:flex;flex-direction:column;background-image:linear-gradient(to right, #98ec9f, #70e77c, #58d362, #3ac445, #25b931, #1a9b25);position:absolute;width:900px;height:600px;text-align:center;justify-content:center;align-items:center;color:snow;font-size:50px;z-index:100;box-shadow:3px 3px 10px black}.close-modal{display:none}.open-park-view{display:flex;flex-direction:column;position:absolute;width:900px;height:600px;text-align:center;justify-content:center;align-items:center;color:rgba(255,250,250,0.692);font-size:50px;z-index:100;background-color:transparent}.close-park-view{display:none}.fa-paw{padding:0px 10px;font-size:30px}.fa-bone{margin:80px 0px;font-size:100px;color:rgba(255,255,255,0.397);transition:0.5s}.fa-bone:hover{color:rgba(255,255,255,0.759)}#click-start{padding:30px;transition:0.7s}#click-start:hover{color:black;cursor:pointer}.difficulty-mode{width:8em;display:flex;flex-direction:column;border-radius:30px;margin:20px 0px 30px 0px;padding:10px 0px;box-shadow:3px 3px 5px;background-image:linear-gradient(to right, #d39c68, #d19257, #c48040, #b66a23, #a16731, #8f5620)}.difficulty-mode button{padding:10px;font-size:20px;color:white;transition:0.5s}.difficulty-mode button:hover{color:black;cursor:pointer}.difficulty-mode button:focus{color:black;cursor:pointer}.music{width:4em;font-size:20px;color:black;border-radius:20px;display:flex;flex-direction:column;text-align:center;padding:12px;background-image:linear-gradient(to right, #d39c68, #d19257, #c48040, #b66a23, #a16731, #8f5620);box-shadow:3px 3px 5px black}#mute-music,#play-music{padding-top:4px;font-size:16px;color:white;transition:0.5s}#play-music{padding-top:8px}#mute-music:hover,#play-music:hover{color:black;cursor:pointer}.active-button{color:#19571e !important;cursor:default !important}@media screen and (max-width: 1380px){.left h3{font-size:26px}.left p{padding-top:12px;font-size:16px}}
 
 
 /*# sourceMappingURL=main.css.map*/

diff --git a/index.html b/index.html
@@ -17,7 +17,10 @@
 </head>
 <body>
     <div class="outer-container">
-        <h1></i>Ultimate Frisd<img src="src/assets/images/corgiicon.png" alt="corgiicon" width=40 height=70>g</h1>
+        <div>
+            <i class="fas fa-sun"></i>
+            <h1></i>Ultimate Frisd<img src="src/assets/images/corgiicon.png" alt="corgiicon" width=40 height=70>g</h1>
+        </div>
         <div class="main-container">
             <aside class="left">
                 <div class="instructions">
@@ -36,7 +39,6 @@
             </aside>
             
             <main class="game-screen">
-                <i class="fas fa-sun"></i>
                 <div id='modal' class='open-modal'>
                     <i class="fas fa-bone"></i>
                     <div id="click-start">
@@ -58,7 +60,7 @@
                     <button id="medium-button">Medium</button>
                     <button id="hard-button" class="active-button">Hard</button>
                 </div>
-                <a href='https://github.com/nancyma713'><i class="fab fa-github"></i></a>
+                <a href='https://github.com/nancyma713/Ultimate-Frisdog'><i class="fab fa-github"></i></a>
                 <a href="https://www.linkedin.com/in/nancy-ma-68357275/"><i class="fab fa-linkedin"></i></a>
                 <a href="https://angel.co/u/nancy-ma"><i class="fab fa-angellist"></i></a>
                 <a href="https://nancyma713.github.io/"><img src="src/assets/images/corgi.gif" alt="corgi"></a>

diff --git a/src/scripts/game.js b/src/scripts/game.js
@@ -51,6 +51,7 @@ class Game {
         this.trees = trees;
 
         let music = new Audio('src/assets/sounds/music.mp3');
+        music.loop = true;
         this.music = music;
 
         this.setup = this.setup.bind(this);
@@ -114,8 +115,6 @@ class Game {
     playMusic() {
         this.muteButton.classList.remove('active-button');
         this.playButton.classList.add('active-button');
-        this.music.pause();
-        this.music.currentTime = 0;
         this.music.play();
     }
 

diff --git a/src/styles/index.scss b/src/styles/index.scss
@@ -11,8 +11,8 @@ body {
 
 .fa-sun {
     position: absolute;
-    left: 20%;
-    top: -15%;
+    left: 25%;
+    top: 2%;
     font-size: 5em;
     color: yellow;
     text-shadow: 5px 5px 15px;
@@ -25,6 +25,7 @@ body {
 }
 
 .outer-container h1 {
+    position: relative;
     font-size: 60px;
     display: flex;
     justify-content: center;
@@ -68,7 +69,7 @@ body {
 }
 
 .game-screen {
-    flex: 7;
+    flex: 6;
     margin-right: 20px;
     display: flex;
     justify-content: center;
